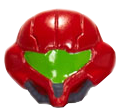
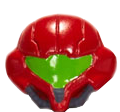
make Samus start lower

diff --git a/README.md b/README.md
@@ -6,7 +6,7 @@ The CSS and images used on [/r/WorldOfNintendo](http://reddit.com/r/WorldOfNinte
 This repo uses [CodeKit](https://incident57.com/codekit/) to manage some SASS things for me (mostly Autoprefixer), but you can use whatever you like!
 
 ##To Do
-* use a sprite sheet instead of saving individual files for nav stuff (and make Samus start lower)
+* use a sprite sheet instead of saving individual files for nav stuff
 * create some `@extend`s for the commonly shared shit?
 * create user flair using the images I already popped out for nav items
 * restrict `announcements` and `giveaways` link flair via [this helpful link](http://www.reddit.com/r/modhelp/comments/1r6q9s/i_dont_understand_link_flair_user_can_edit/cdk7m8o)
